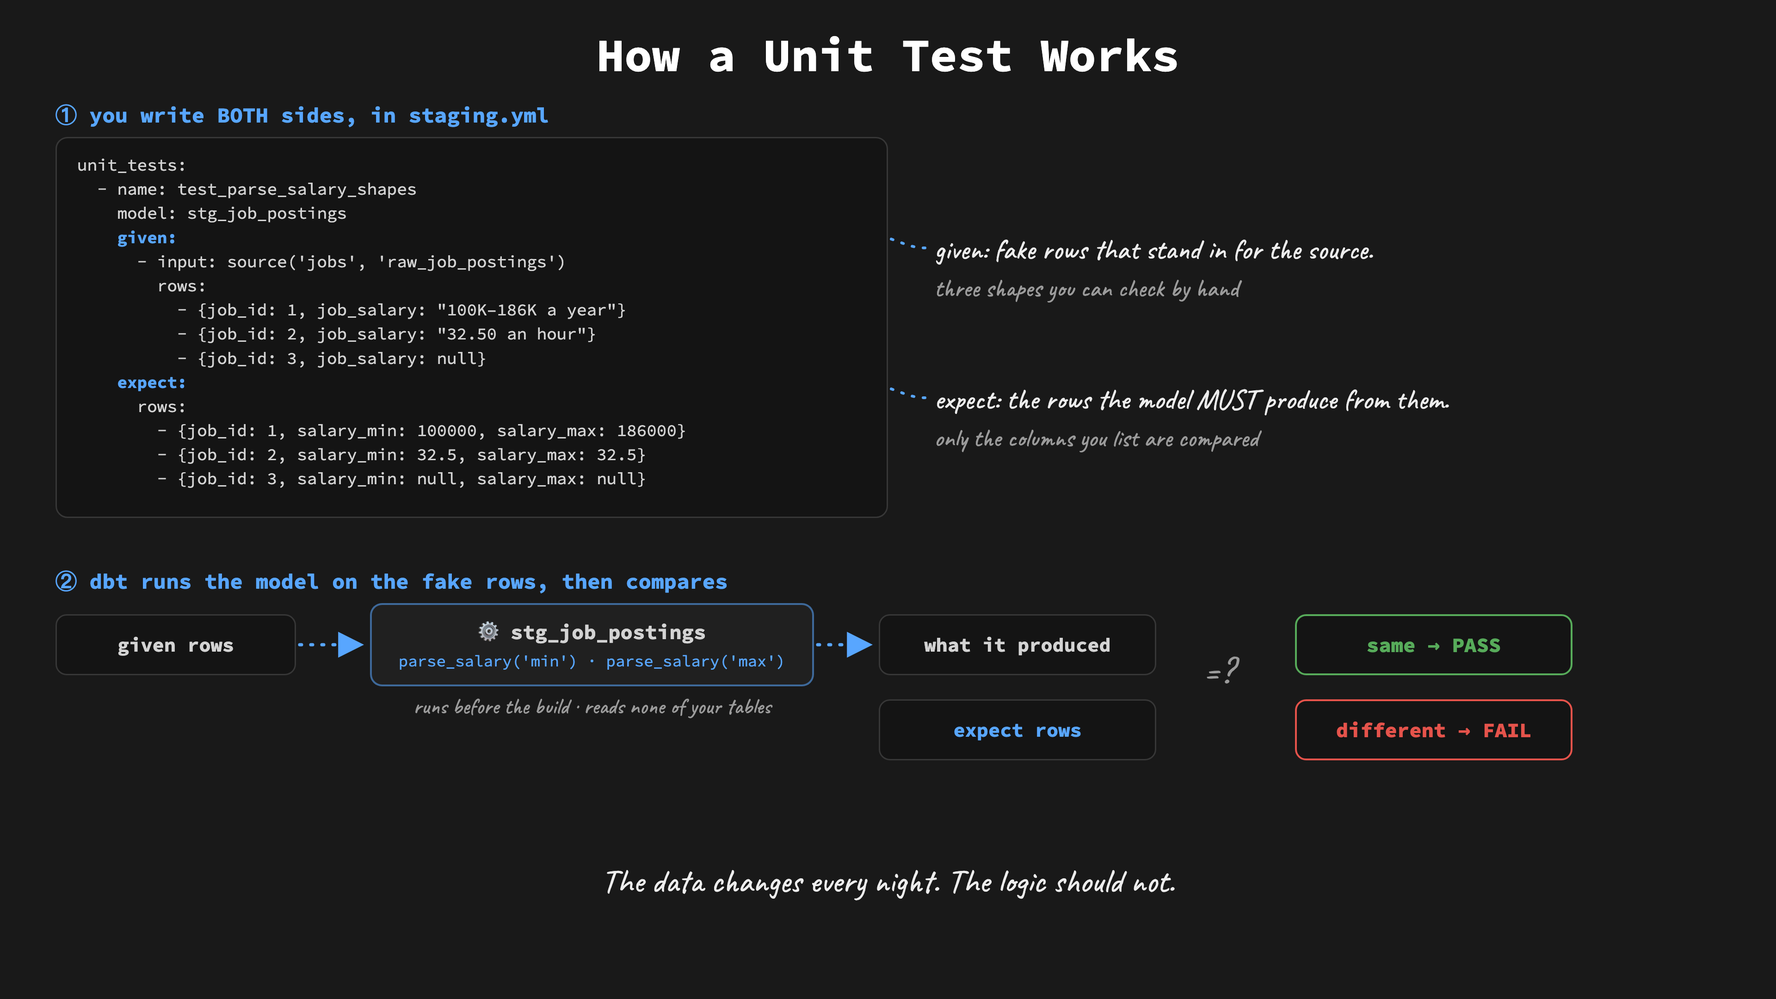
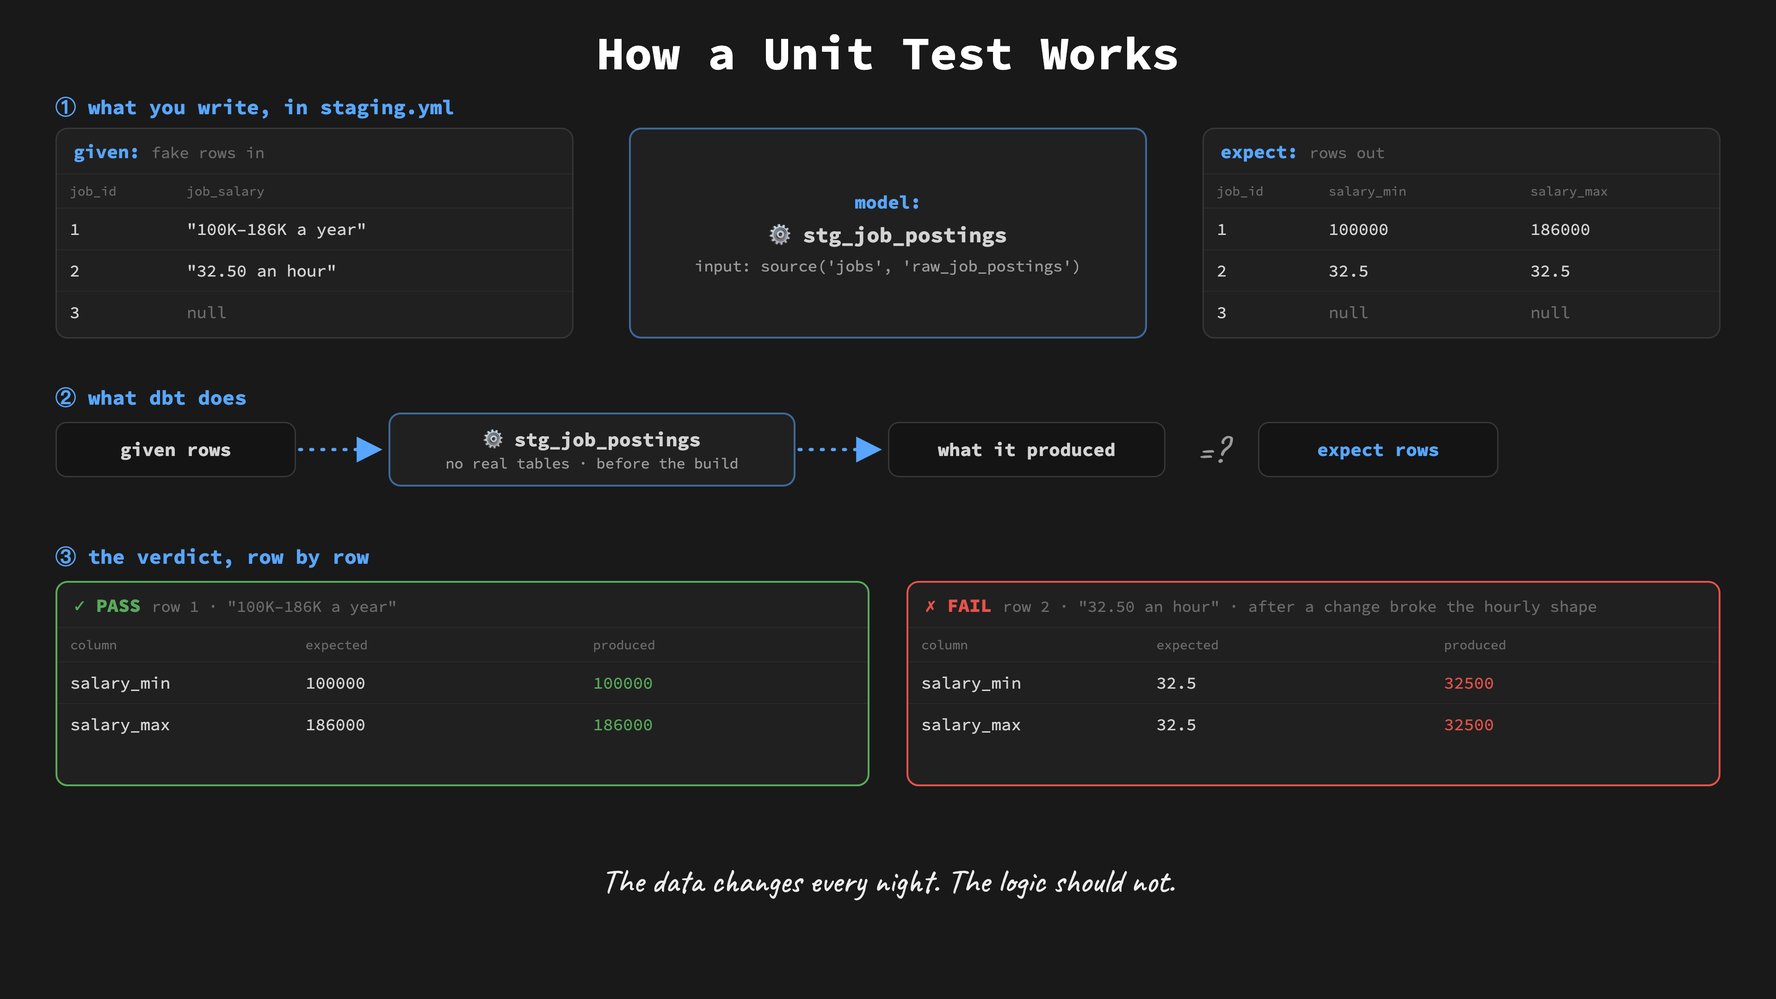
3.09: direction flipped side in red; unit test as three areas (Luke)
direction: the 'same test flipped' header and its three arrows are now
--err red, so the wrong direction reads as wrong before the chips do.

unit_test v3: no YAML block. ① three boxes for the three things you
write (given rows, model + input, expect rows), ② the flow given rows ->
model -> what it produced vs expect rows, ③ the verdict row by row: a
real PASS on row 1 and a FAIL on row 2 after a change broke the hourly
shape, expected vs produced side by side.

diff --git a/resources/diagrams/3.09_unit_test.html b/resources/diagrams/3.09_unit_test.html
@@ -15,17 +15,21 @@
   }
   html,body{margin:0;padding:0;background:var(--bg)}
   .stage{position:relative;width:1920px;height:1080px;overflow:hidden;font-family:var(--hand);color:var(--ink);background:var(--bg)}
-  .title{position:absolute;top:28px;left:0;width:1920px;font-family:var(--mono);font-size:50px;font-weight:700;color:#FFFFFF;text-align:center}
-  .step{position:absolute;font-family:var(--mono);font-size:23px;font-weight:700;color:var(--blue)}
-  .term{position:absolute;box-sizing:border-box;border-radius:13px;background:#141414;border:1.5px solid var(--line);padding:16px 22px}
-  .code{font-family:var(--mono);font-size:18px;line-height:1.45;white-space:pre;color:var(--text)}
-  .hand{position:absolute;font-family:var(--hand);color:var(--ink);font-size:31px;line-height:1.3}
-  .chip{position:absolute;box-sizing:border-box;height:66px;border-radius:12px;background:#141414;border:1.5px solid var(--line);display:flex;align-items:center;justify-content:center;font-family:var(--mono);font-size:21px;font-weight:700;color:var(--text)}
-  .model{position:absolute;box-sizing:border-box;border-radius:13px;background:var(--panel);border:2px solid rgba(88,166,255,.55);display:flex;flex-direction:column;align-items:center;justify-content:center;gap:6px}
-  .model .n{font-family:var(--mono);font-size:22px;font-weight:700;color:var(--text)}
-  .model .m{font-family:var(--mono);font-size:17px;color:var(--blue)}
-  .model .t{font-family:var(--hand);font-size:22px;color:var(--muted)}
-  .verdict{position:absolute;box-sizing:border-box;height:66px;width:300px;border-radius:12px;background:#141414;display:flex;align-items:center;justify-content:center;font-family:var(--mono);font-size:22px;font-weight:800}
+  .title{position:absolute;top:26px;left:0;width:1920px;font-family:var(--mono);font-size:50px;font-weight:700;color:#FFFFFF;text-align:center}
+  .step{position:absolute;font-family:var(--mono);font-size:22px;font-weight:700;color:var(--blue)}
+  .card{position:absolute;box-sizing:border-box;border-radius:13px;background:var(--panel);border:1.5px solid var(--line);overflow:hidden}
+  .ch{font-family:var(--mono);font-size:20px;font-weight:700;color:var(--blue);padding:12px 18px;height:48px;box-sizing:border-box}
+  .ch span{color:var(--faint);font-weight:400;font-size:17px}
+  .r{display:flex;font-family:var(--mono);font-size:18px;border-top:1px solid #2b2b2b;height:44px;align-items:center;color:var(--text)}
+  .r span{padding:0 14px}
+  .r.hd{height:36px;color:var(--faint);font-size:14px}
+  .model{position:absolute;box-sizing:border-box;border-radius:13px;background:var(--panel);border:2px solid rgba(88,166,255,.55);display:flex;flex-direction:column;align-items:center;justify-content:center;gap:8px}
+  .model .n{font-family:var(--mono);font-size:23px;font-weight:700;color:var(--text)}
+  .model .m{font-family:var(--mono);font-size:17px;color:var(--muted)}
+  .chip{position:absolute;box-sizing:border-box;height:60px;border-radius:12px;background:#141414;border:1.5px solid var(--line);display:flex;align-items:center;justify-content:center;font-family:var(--mono);font-size:20px;font-weight:700;color:var(--text)}
+  .hand{position:absolute;font-family:var(--hand);color:var(--muted);font-size:26px;text-align:center}
+  .vc{position:absolute;box-sizing:border-box;border-radius:13px;background:var(--panel);overflow:hidden}
+  .vh{font-family:var(--mono);font-size:20px;font-weight:800;padding:12px 18px;height:48px;box-sizing:border-box}
   .rule{position:absolute;left:0;width:1920px;text-align:center;font-family:var(--hand);font-size:36px;color:var(--ink)}
   svg.art{position:absolute;inset:0;pointer-events:none}
 </style>
@@ -35,48 +39,57 @@
 
   <div class="title">How a Unit Test Works</div>
 
-  <!-- ① the YAML: both sides -->
-  <div class="step" style="left:60px;top:108px">① you write BOTH sides, in staging.yml</div>
-  <div class="term" style="left:60px;top:148px;width:900px;height:412px">
-<div class="code">unit_tests:
-  - name: test_parse_salary_shapes
-    model: stg_job_postings
-    <span style="color:var(--blue);font-weight:700">given:</span>
-      - input: source('jobs', 'raw_job_postings')
-        rows:
-          - {job_id: 1, job_salary: "100K–186K a year"}
-          - {job_id: 2, job_salary: "32.50 an hour"}
-          - {job_id: 3, job_salary: null}
-    <span style="color:var(--blue);font-weight:700">expect:</span>
-      rows:
-        - {job_id: 1, salary_min: 100000, salary_max: 186000}
-        - {job_id: 2, salary_min: 32.5, salary_max: 32.5}
-        - {job_id: 3, salary_min: null, salary_max: null}</div>
+  <!-- ① what you write -->
+  <div class="step" style="left:60px;top:100px">① what you write, in staging.yml</div>
+  <div class="card" style="left:60px;top:138px;width:560px;height:228px">
+    <div class="ch">given: <span>fake rows in</span></div>
+    <div class="r hd"><span style="width:110px">job_id</span><span style="width:450px">job_salary</span></div>
+    <div class="r"><span style="width:110px">1</span><span style="width:450px">"100K–186K a year"</span></div>
+    <div class="r"><span style="width:110px">2</span><span style="width:450px">"32.50 an hour"</span></div>
+    <div class="r"><span style="width:110px">3</span><span style="width:450px;color:var(--faint)">null</span></div>
   </div>
-  <div class="hand" style="left:1010px;top:250px;width:840px">given: fake rows that stand in for the source.<br><span style="color:var(--muted);font-size:27px">three shapes you can check by hand</span></div>
-  <div class="hand" style="left:1010px;top:412px;width:840px">expect: the rows the model MUST produce from them.<br><span style="color:var(--muted);font-size:27px">only the columns you list are compared</span></div>
+  <div class="model" style="left:680px;top:138px;width:560px;height:228px">
+    <div class="m" style="color:var(--blue);font-weight:700;font-size:20px">model:</div>
+    <div class="n">⚙ stg_job_postings</div>
+    <div class="m">input: source('jobs', 'raw_job_postings')</div>
+  </div>
+  <div class="card" style="left:1300px;top:138px;width:560px;height:228px">
+    <div class="ch">expect: <span>rows out</span></div>
+    <div class="r hd"><span style="width:110px">job_id</span><span style="width:225px">salary_min</span><span style="width:225px">salary_max</span></div>
+    <div class="r"><span style="width:110px">1</span><span style="width:225px">100000</span><span style="width:225px">186000</span></div>
+    <div class="r"><span style="width:110px">2</span><span style="width:225px">32.5</span><span style="width:225px">32.5</span></div>
+    <div class="r"><span style="width:110px">3</span><span style="width:225px;color:var(--faint)">null</span><span style="width:225px;color:var(--faint)">null</span></div>
+  </div>
 
-  <!-- ② the run -->
-  <div class="step" style="left:60px;top:612px">② dbt runs the model on the fake rows, then compares</div>
-  <div class="chip" style="left:60px;top:664px;width:260px">given rows</div>
-  <div class="model" style="left:400px;top:652px;width:480px;height:90px"><div class="n">⚙ stg_job_postings</div><div class="m">parse_salary('min')  ·  parse_salary('max')</div></div>
-  <div class="hand" style="left:400px;top:748px;width:480px;font-size:24px;color:var(--muted);text-align:center">runs before the build · reads none of your tables</div>
-  <div class="chip" style="left:950px;top:664px;width:300px">what it produced</div>
-  <div class="chip" style="left:950px;top:756px;width:300px;color:var(--blue)">expect rows</div>
-  <div class="hand" style="left:1262px;top:700px;width:110px;font-size:40px;text-align:center;color:var(--muted)">=?</div>
-  <div class="verdict" style="left:1400px;top:664px;border:2px solid var(--ok);color:var(--ok)">same  →  PASS</div>
-  <div class="verdict" style="left:1400px;top:756px;border:2px solid var(--err);color:var(--err)">different  →  FAIL</div>
+  <!-- ② what dbt does -->
+  <div class="step" style="left:60px;top:414px">② what dbt does</div>
+  <div class="chip" style="left:60px;top:456px;width:260px">given rows</div>
+  <div class="model" style="left:420px;top:446px;width:440px;height:80px;gap:2px"><div class="n" style="font-size:21px">⚙ stg_job_postings</div><div class="m" style="font-size:16px">no real tables · before the build</div></div>
+  <div class="chip" style="left:960px;top:456px;width:300px">what it produced</div>
+  <div class="hand" style="left:1270px;top:462px;width:80px;font-size:40px">=?</div>
+  <div class="chip" style="left:1360px;top:456px;width:260px;color:var(--blue)">expect rows</div>
 
-  <!-- the point -->
+  <!-- ③ the verdict -->
+  <div class="step" style="left:60px;top:586px">③ the verdict, row by row</div>
+  <div class="vc" style="left:60px;top:628px;width:880px;height:222px;border:2px solid var(--ok)">
+    <div class="vh" style="color:var(--ok)">✓ PASS  <span style="color:var(--faint);font-weight:400;font-size:17px">row 1 · "100K–186K a year"</span></div>
+    <div class="r hd"><span style="width:240px">column</span><span style="width:300px">expected</span><span style="width:300px">produced</span></div>
+    <div class="r"><span style="width:240px">salary_min</span><span style="width:300px">100000</span><span style="width:300px;color:var(--ok)">100000</span></div>
+    <div class="r"><span style="width:240px">salary_max</span><span style="width:300px">186000</span><span style="width:300px;color:var(--ok)">186000</span></div>
+  </div>
+  <div class="vc" style="left:980px;top:628px;width:880px;height:222px;border:2px solid var(--err)">
+    <div class="vh" style="color:var(--err)">✗ FAIL  <span style="color:var(--faint);font-weight:400;font-size:17px">row 2 · "32.50 an hour" · after a change broke the hourly shape</span></div>
+    <div class="r hd"><span style="width:240px">column</span><span style="width:300px">expected</span><span style="width:300px">produced</span></div>
+    <div class="r"><span style="width:240px">salary_min</span><span style="width:300px">32.5</span><span style="width:300px;color:var(--err)">32500</span></div>
+    <div class="r"><span style="width:240px">salary_max</span><span style="width:300px">32.5</span><span style="width:300px;color:var(--err)">32500</span></div>
+  </div>
+
   <div class="rule" style="top:930px">The data changes every night. The logic should not.</div>
 
   <svg class="art" viewBox="0 0 1920 1080">
     <defs><marker id="ab" viewBox="0 0 10 10" refX="8" refY="5" markerWidth="8" markerHeight="8" orient="auto-start-reverse"><path d="M 0 0 L 10 5 L 0 10 z" fill="#58A6FF"/></marker></defs>
-    <line x1="324" y1="697" x2="388" y2="697" stroke="#58A6FF" stroke-width="3.5" stroke-dasharray="2 10" stroke-linecap="round" marker-end="url(#ab)"/>
-    <line x1="884" y1="697" x2="938" y2="697" stroke="#58A6FF" stroke-width="3.5" stroke-dasharray="2 10" stroke-linecap="round" marker-end="url(#ab)"/>
-    <line x1="964" y1="262" x2="964" y2="262" stroke="none"/>
-    <path d="M 1000 268 C 985 268, 975 262, 962 258" fill="none" stroke="#58A6FF" stroke-width="3" stroke-dasharray="2 10" stroke-linecap="round"/>
-    <path d="M 1000 430 C 985 430, 975 424, 962 420" fill="none" stroke="#58A6FF" stroke-width="3" stroke-dasharray="2 10" stroke-linecap="round"/>
+    <line x1="324" y1="486" x2="408" y2="486" stroke="#58A6FF" stroke-width="3.5" stroke-dasharray="2 10" stroke-linecap="round" marker-end="url(#ab)"/>
+    <line x1="864" y1="486" x2="948" y2="486" stroke="#58A6FF" stroke-width="3.5" stroke-dasharray="2 10" stroke-linecap="round" marker-end="url(#ab)"/>
   </svg>
 
 </div>

diff --git a/resources/diagrams/3.09_relationships_direction.html b/resources/diagrams/3.09_relationships_direction.html
@@ -30,7 +30,7 @@
 <div class="stage">
   <div class="title">Why the Direction Matters</div>
   <div class="colh" style="left:660px;width:580px;color:var(--blue)">written where the FK lives  ·  FK → PK</div>
-  <div class="colh" style="left:1280px;width:580px;color:var(--muted)">the same test flipped  ·  PK → FK</div>
+  <div class="colh" style="left:1280px;width:580px;color:var(--err)">the same test flipped  ·  PK → FK</div>
   <div class="pair" style="left:60px;top:208px;width:560px">bridge_job_skills.skill_id<br>→ dim_skill.skill_id<br><span class="sub">every skill pair → the taxonomy</span></div>
 <div class="chip" style="left:780px;top:278px;border:2px solid var(--ok);color:var(--ok)">✓ PASS · 0 orphans</div>
 <div class="why" style="left:660px;top:350px;width:580px">every skill somebody posted is in the taxonomy</div>
@@ -49,13 +49,13 @@
 <div class="chip" style="left:1400px;top:798px;border:2px solid var(--ok);color:var(--ok)">✓ PASS · 0 rows</div>
 <div class="why" style="left:1280px;top:870px;width:580px">passes, but only because dim_company is BUILT from fct</div>
   <svg class="art" viewBox="0 0 1920 1080">
-    <defs><marker id="ab" viewBox="0 0 10 10" refX="8" refY="5" markerWidth="7" markerHeight="7" orient="auto-start-reverse"><path d="M 0 0 L 10 5 L 0 10 z" fill="#58A6FF"/></marker></defs>
+    <defs><marker id="ab" viewBox="0 0 10 10" refX="8" refY="5" markerWidth="7" markerHeight="7" orient="auto-start-reverse"><path d="M 0 0 L 10 5 L 0 10 z" fill="#58A6FF"/></marker><marker id="ar" viewBox="0 0 10 10" refX="8" refY="5" markerWidth="7" markerHeight="7" orient="auto-start-reverse"><path d="M 0 0 L 10 5 L 0 10 z" fill="#E5534B"/></marker></defs>
     <rect x="680" y="212" width="190" height="44" rx="8" fill="#202020" stroke="#4a4a4a" stroke-width="1.5"/><text x="775.0" y="240" text-anchor="middle" font-family="Source Code Pro,monospace" font-size="16" font-weight="700" fill="#D3D3D3">bridge_job_skills</text><rect x="1030" y="212" width="190" height="44" rx="8" fill="#202020" stroke="#4a4a4a" stroke-width="1.5"/><text x="1125.0" y="240" text-anchor="middle" font-family="Source Code Pro,monospace" font-size="16" font-weight="700" fill="#D3D3D3">dim_skill</text><line x1="894" y1="234" x2="1012" y2="234" stroke="#9B9B9B" stroke-width="2"/><line x1="894" y1="234" x2="870" y2="222" stroke="#9B9B9B" stroke-width="2"/><line x1="894" y1="234" x2="870" y2="234" stroke="#9B9B9B" stroke-width="2"/><line x1="894" y1="234" x2="870" y2="246" stroke="#9B9B9B" stroke-width="2"/><line x1="1012" y1="222" x2="1012" y2="246" stroke="#9B9B9B" stroke-width="2"/><line x1="880" y1="190" x2="1016" y2="190" stroke="#58A6FF" stroke-width="3.5" stroke-dasharray="2 10" stroke-linecap="round" marker-end="url(#ab)"/>
-<rect x="1300" y="212" width="190" height="44" rx="8" fill="#202020" stroke="#4a4a4a" stroke-width="1.5"/><text x="1395.0" y="240" text-anchor="middle" font-family="Source Code Pro,monospace" font-size="16" font-weight="700" fill="#D3D3D3">bridge_job_skills</text><rect x="1650" y="212" width="190" height="44" rx="8" fill="#202020" stroke="#4a4a4a" stroke-width="1.5"/><text x="1745.0" y="240" text-anchor="middle" font-family="Source Code Pro,monospace" font-size="16" font-weight="700" fill="#D3D3D3">dim_skill</text><line x1="1514" y1="234" x2="1632" y2="234" stroke="#9B9B9B" stroke-width="2"/><line x1="1514" y1="234" x2="1490" y2="222" stroke="#9B9B9B" stroke-width="2"/><line x1="1514" y1="234" x2="1490" y2="234" stroke="#9B9B9B" stroke-width="2"/><line x1="1514" y1="234" x2="1490" y2="246" stroke="#9B9B9B" stroke-width="2"/><line x1="1632" y1="222" x2="1632" y2="246" stroke="#9B9B9B" stroke-width="2"/><line x1="1640" y1="190" x2="1504" y2="190" stroke="#58A6FF" stroke-width="3.5" stroke-dasharray="2 10" stroke-linecap="round" marker-end="url(#ab)"/>
+<rect x="1300" y="212" width="190" height="44" rx="8" fill="#202020" stroke="#4a4a4a" stroke-width="1.5"/><text x="1395.0" y="240" text-anchor="middle" font-family="Source Code Pro,monospace" font-size="16" font-weight="700" fill="#D3D3D3">bridge_job_skills</text><rect x="1650" y="212" width="190" height="44" rx="8" fill="#202020" stroke="#4a4a4a" stroke-width="1.5"/><text x="1745.0" y="240" text-anchor="middle" font-family="Source Code Pro,monospace" font-size="16" font-weight="700" fill="#D3D3D3">dim_skill</text><line x1="1514" y1="234" x2="1632" y2="234" stroke="#9B9B9B" stroke-width="2"/><line x1="1514" y1="234" x2="1490" y2="222" stroke="#9B9B9B" stroke-width="2"/><line x1="1514" y1="234" x2="1490" y2="234" stroke="#9B9B9B" stroke-width="2"/><line x1="1514" y1="234" x2="1490" y2="246" stroke="#9B9B9B" stroke-width="2"/><line x1="1632" y1="222" x2="1632" y2="246" stroke="#9B9B9B" stroke-width="2"/><line x1="1640" y1="190" x2="1504" y2="190" stroke="#E5534B" stroke-width="3.5" stroke-dasharray="2 10" stroke-linecap="round" marker-end="url(#ar)"/>
 <rect x="680" y="472" width="190" height="44" rx="8" fill="#202020" stroke="#4a4a4a" stroke-width="1.5"/><text x="775.0" y="500" text-anchor="middle" font-family="Source Code Pro,monospace" font-size="16" font-weight="700" fill="#D3D3D3">bridge_job_skills</text><rect x="1030" y="472" width="190" height="44" rx="8" fill="#202020" stroke="#4a4a4a" stroke-width="1.5"/><text x="1125.0" y="500" text-anchor="middle" font-family="Source Code Pro,monospace" font-size="16" font-weight="700" fill="#D3D3D3">fct_job_postings</text><line x1="894" y1="494" x2="1012" y2="494" stroke="#9B9B9B" stroke-width="2"/><line x1="894" y1="494" x2="870" y2="482" stroke="#9B9B9B" stroke-width="2"/><line x1="894" y1="494" x2="870" y2="494" stroke="#9B9B9B" stroke-width="2"/><line x1="894" y1="494" x2="870" y2="506" stroke="#9B9B9B" stroke-width="2"/><line x1="1012" y1="482" x2="1012" y2="506" stroke="#9B9B9B" stroke-width="2"/><line x1="880" y1="450" x2="1016" y2="450" stroke="#58A6FF" stroke-width="3.5" stroke-dasharray="2 10" stroke-linecap="round" marker-end="url(#ab)"/>
-<rect x="1300" y="472" width="190" height="44" rx="8" fill="#202020" stroke="#4a4a4a" stroke-width="1.5"/><text x="1395.0" y="500" text-anchor="middle" font-family="Source Code Pro,monospace" font-size="16" font-weight="700" fill="#D3D3D3">bridge_job_skills</text><rect x="1650" y="472" width="190" height="44" rx="8" fill="#202020" stroke="#4a4a4a" stroke-width="1.5"/><text x="1745.0" y="500" text-anchor="middle" font-family="Source Code Pro,monospace" font-size="16" font-weight="700" fill="#D3D3D3">fct_job_postings</text><line x1="1514" y1="494" x2="1632" y2="494" stroke="#9B9B9B" stroke-width="2"/><line x1="1514" y1="494" x2="1490" y2="482" stroke="#9B9B9B" stroke-width="2"/><line x1="1514" y1="494" x2="1490" y2="494" stroke="#9B9B9B" stroke-width="2"/><line x1="1514" y1="494" x2="1490" y2="506" stroke="#9B9B9B" stroke-width="2"/><line x1="1632" y1="482" x2="1632" y2="506" stroke="#9B9B9B" stroke-width="2"/><line x1="1640" y1="450" x2="1504" y2="450" stroke="#58A6FF" stroke-width="3.5" stroke-dasharray="2 10" stroke-linecap="round" marker-end="url(#ab)"/>
+<rect x="1300" y="472" width="190" height="44" rx="8" fill="#202020" stroke="#4a4a4a" stroke-width="1.5"/><text x="1395.0" y="500" text-anchor="middle" font-family="Source Code Pro,monospace" font-size="16" font-weight="700" fill="#D3D3D3">bridge_job_skills</text><rect x="1650" y="472" width="190" height="44" rx="8" fill="#202020" stroke="#4a4a4a" stroke-width="1.5"/><text x="1745.0" y="500" text-anchor="middle" font-family="Source Code Pro,monospace" font-size="16" font-weight="700" fill="#D3D3D3">fct_job_postings</text><line x1="1514" y1="494" x2="1632" y2="494" stroke="#9B9B9B" stroke-width="2"/><line x1="1514" y1="494" x2="1490" y2="482" stroke="#9B9B9B" stroke-width="2"/><line x1="1514" y1="494" x2="1490" y2="494" stroke="#9B9B9B" stroke-width="2"/><line x1="1514" y1="494" x2="1490" y2="506" stroke="#9B9B9B" stroke-width="2"/><line x1="1632" y1="482" x2="1632" y2="506" stroke="#9B9B9B" stroke-width="2"/><line x1="1640" y1="450" x2="1504" y2="450" stroke="#E5534B" stroke-width="3.5" stroke-dasharray="2 10" stroke-linecap="round" marker-end="url(#ar)"/>
 <rect x="680" y="732" width="190" height="44" rx="8" fill="#202020" stroke="#4a4a4a" stroke-width="1.5"/><text x="775.0" y="760" text-anchor="middle" font-family="Source Code Pro,monospace" font-size="16" font-weight="700" fill="#D3D3D3">fct_job_postings</text><rect x="1030" y="732" width="190" height="44" rx="8" fill="#202020" stroke="#4a4a4a" stroke-width="1.5"/><text x="1125.0" y="760" text-anchor="middle" font-family="Source Code Pro,monospace" font-size="16" font-weight="700" fill="#D3D3D3">dim_company</text><line x1="894" y1="754" x2="1012" y2="754" stroke="#9B9B9B" stroke-width="2"/><line x1="894" y1="754" x2="870" y2="742" stroke="#9B9B9B" stroke-width="2"/><line x1="894" y1="754" x2="870" y2="754" stroke="#9B9B9B" stroke-width="2"/><line x1="894" y1="754" x2="870" y2="766" stroke="#9B9B9B" stroke-width="2"/><line x1="1012" y1="742" x2="1012" y2="766" stroke="#9B9B9B" stroke-width="2"/><line x1="880" y1="710" x2="1016" y2="710" stroke="#58A6FF" stroke-width="3.5" stroke-dasharray="2 10" stroke-linecap="round" marker-end="url(#ab)"/>
-<rect x="1300" y="732" width="190" height="44" rx="8" fill="#202020" stroke="#4a4a4a" stroke-width="1.5"/><text x="1395.0" y="760" text-anchor="middle" font-family="Source Code Pro,monospace" font-size="16" font-weight="700" fill="#D3D3D3">fct_job_postings</text><rect x="1650" y="732" width="190" height="44" rx="8" fill="#202020" stroke="#4a4a4a" stroke-width="1.5"/><text x="1745.0" y="760" text-anchor="middle" font-family="Source Code Pro,monospace" font-size="16" font-weight="700" fill="#D3D3D3">dim_company</text><line x1="1514" y1="754" x2="1632" y2="754" stroke="#9B9B9B" stroke-width="2"/><line x1="1514" y1="754" x2="1490" y2="742" stroke="#9B9B9B" stroke-width="2"/><line x1="1514" y1="754" x2="1490" y2="754" stroke="#9B9B9B" stroke-width="2"/><line x1="1514" y1="754" x2="1490" y2="766" stroke="#9B9B9B" stroke-width="2"/><line x1="1632" y1="742" x2="1632" y2="766" stroke="#9B9B9B" stroke-width="2"/><line x1="1640" y1="710" x2="1504" y2="710" stroke="#58A6FF" stroke-width="3.5" stroke-dasharray="2 10" stroke-linecap="round" marker-end="url(#ab)"/>
+<rect x="1300" y="732" width="190" height="44" rx="8" fill="#202020" stroke="#4a4a4a" stroke-width="1.5"/><text x="1395.0" y="760" text-anchor="middle" font-family="Source Code Pro,monospace" font-size="16" font-weight="700" fill="#D3D3D3">fct_job_postings</text><rect x="1650" y="732" width="190" height="44" rx="8" fill="#202020" stroke="#4a4a4a" stroke-width="1.5"/><text x="1745.0" y="760" text-anchor="middle" font-family="Source Code Pro,monospace" font-size="16" font-weight="700" fill="#D3D3D3">dim_company</text><line x1="1514" y1="754" x2="1632" y2="754" stroke="#9B9B9B" stroke-width="2"/><line x1="1514" y1="754" x2="1490" y2="742" stroke="#9B9B9B" stroke-width="2"/><line x1="1514" y1="754" x2="1490" y2="754" stroke="#9B9B9B" stroke-width="2"/><line x1="1514" y1="754" x2="1490" y2="766" stroke="#9B9B9B" stroke-width="2"/><line x1="1632" y1="742" x2="1632" y2="766" stroke="#9B9B9B" stroke-width="2"/><line x1="1640" y1="710" x2="1504" y2="710" stroke="#E5534B" stroke-width="3.5" stroke-dasharray="2 10" stroke-linecap="round" marker-end="url(#ar)"/>
   </svg>
 </div>
 </body>
